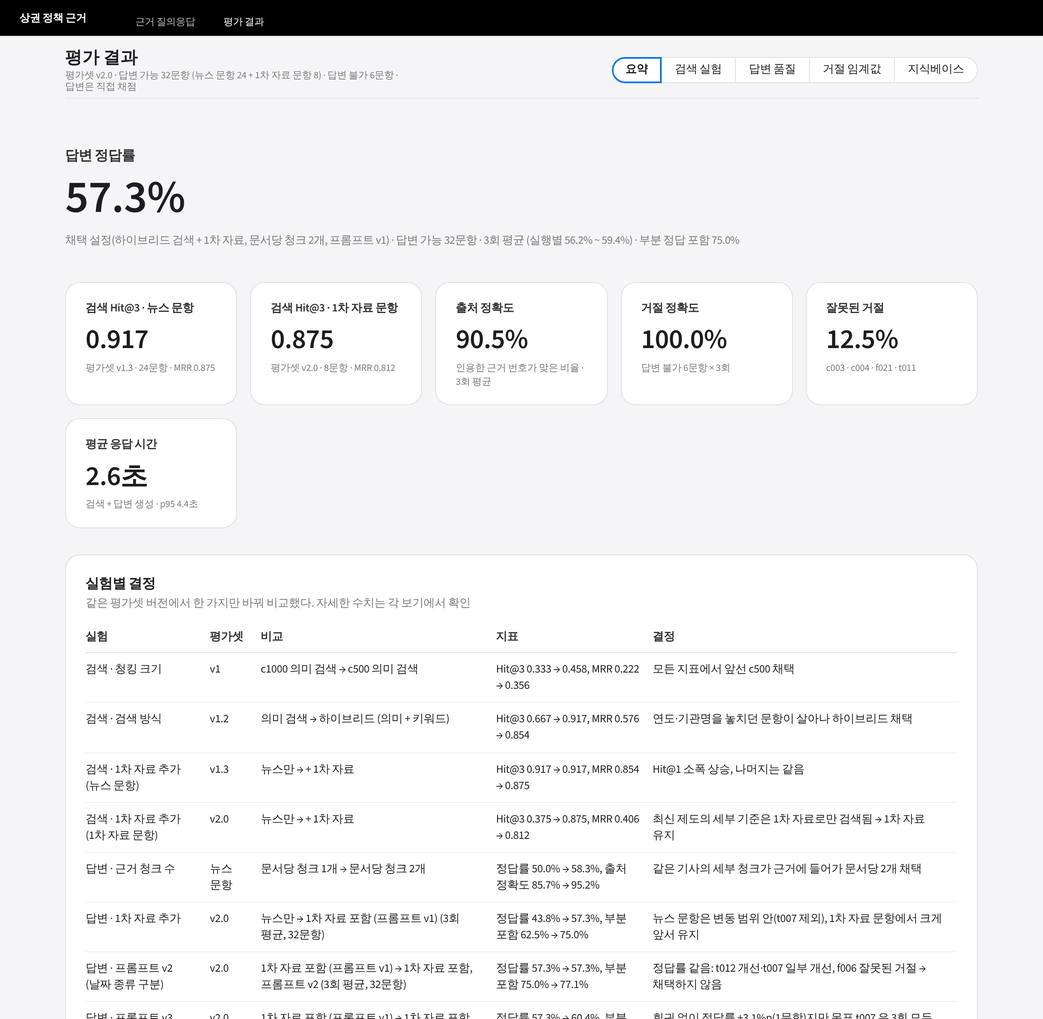
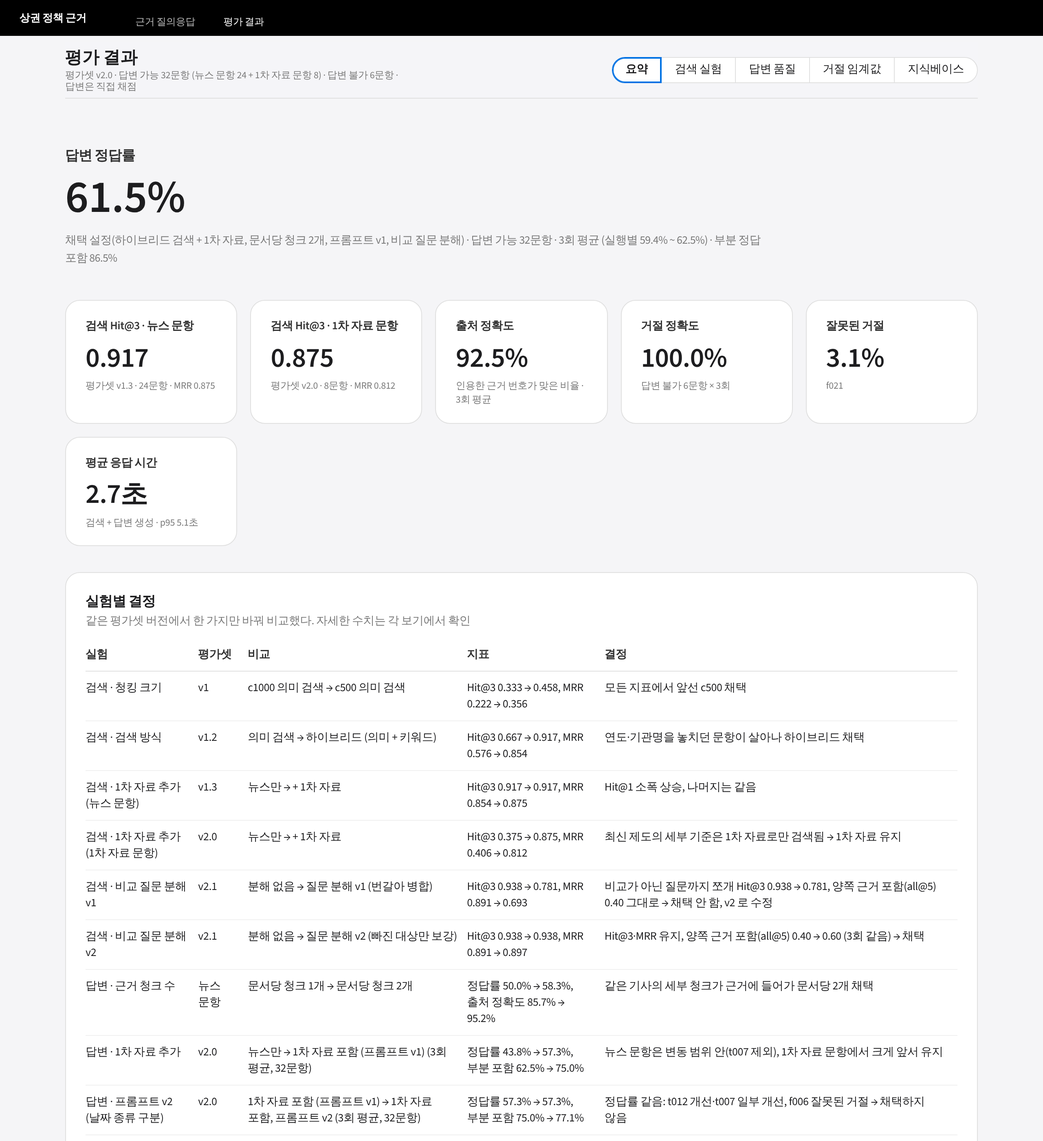
Adopt comparison decomposition v2 as the default
All three criteria set before the runs are met. Comparison all@5 goes
from 0.40 to 0.60 in every run, comparison accuracy goes from 20% to 40%,
and no question's grade got worse. Overall accuracy goes from 57.3% to
61.5% (75.0% to 86.5% counting partial answers). Hit@3 and MRR hold. The
run-3 dip comes from f021, which is not decomposed and already flipped
between two embedding results in earlier runs.

Caveat, recorded in the README, report and TODO: t011 and c003 used to
be false refusals and are now wrong answers. A sub-query brings in
evidence from another period, and the decomposition does not filter by
the question's year. Answered-but-wrong cases still drop from 12 to 10
across three runs.

DEFAULT_DECOMPOSE is now True, so the chatbot and run_eval both use it.
run_eval takes --no-decompose to reproduce earlier experiments. The
dashboard registers the v2 retrieval and answer comparisons, and the
adopted setting is now kb2-dec2. Tests pin the README figures.

diff --git a/eval/run_eval.py b/eval/run_eval.py
@@ -41,7 +41,7 @@ from typing import Any, Protocol
 from common.config import PROJECT_ROOT, RETRIEVAL_MODES, get_settings
 from common.docstore import open_db
 from common.schema import DocType
-from rag.chain import RagChain, RagResult, get_chain
+from rag.chain import DEFAULT_DECOMPOSE, RagChain, RagResult, get_chain
 from rag.prompts import DEFAULT_PROMPT_VERSION, PROMPT_VERSIONS
 from rag.retriever import HYBRID_CANDIDATES, RRF_K, RetrievedChunk, Retriever, SearchFilters
 
@@ -472,8 +472,9 @@ def main() -> None:
     parser.add_argument("--prompt-version", choices=PROMPT_VERSIONS,
                         help=f"답변 생성 시스템 프롬프트 버전 (기본: {DEFAULT_PROMPT_VERSION}, rag/prompts.py)")
     parser.add_argument("--seed", type=int, help="LLM seed (OpenAI 재현성 옵션, 반복 실행 변동 확인용)")
-    parser.add_argument("--decompose", action="store_true",
-                        help="비교 질문을 대상별 질의로 나눠 검색 (rag/decompose.py). 검색 평가에도 적용된다")
+    parser.add_argument("--decompose", action=argparse.BooleanOptionalAction, default=None,
+                        help="비교 질문을 대상별 질의로 나눠 검색 (rag/decompose.py, 기본: rag.chain.DEFAULT_DECOMPOSE). "
+                             "검색 평가에도 적용된다. 분해 채택 전 실험은 --no-decompose 로 재현한다")
     parser.add_argument("--rescore", type=Path, help="저장된 검색 결과(eval/results/...)를 현재 정답 목록으로 다시 채점")
     parser.add_argument("--ids", nargs="+", metavar="ID",
                         help="이 문항만 평가한다 (예: f021 t013). 일부 문항의 반복 실행 비교에 쓴다")
@@ -490,7 +491,8 @@ def main() -> None:
         return
     if args.k < 3:
         parser.error("--k 는 3 이상이어야 합니다 (Hit@3 계산)")
-    if (args.prompt_version or args.seed is not None) and not (args.with_answers or args.decompose):
+    decompose = DEFAULT_DECOMPOSE if args.decompose is None else args.decompose
+    if (args.prompt_version or args.seed is not None) and not (args.with_answers or decompose):
         parser.error("--prompt-version, --seed 는 --with-answers 와 함께 쓴다 (답변 생성 설정)")
 
     items = load_eval_set(settings.eval_set_path)
@@ -513,14 +515,14 @@ def main() -> None:
     if filters:
         print(f"검색 대상 문서 종류: {', '.join(args.doc_types)}")
     chain: RagChain | None = None
-    if args.with_answers or args.decompose:
+    if args.with_answers or decompose:
         try:
-            chain = get_chain(collection, mode, args.context_chunks, args.prompt_version, args.seed, args.decompose)
+            chain = get_chain(collection, mode, args.context_chunks, args.prompt_version, args.seed, decompose)
         except RuntimeError as exc:
             raise SystemExit(str(exc)) from exc
     # 질문 분해는 체인이 감싼 검색기에 있으므로 검색 평가도 그 검색기로 한다 (답변과 같은 하위 질의, 캐시 공유)
-    print(f"검색 평가 중: {len(items)}문항" + (" (질문 분해: 비교 질문은 LLM 호출 포함)" if args.decompose else ""))
-    records = evaluate_retrieval(items, chain.retriever if args.decompose else retriever, args.k, filters,
+    print(f"검색 평가 중: {len(items)}문항" + (" (질문 분해: 비교 질문은 LLM 호출 포함)" if decompose else ""))
+    records = evaluate_retrieval(items, chain.retriever if decompose else retriever, args.k, filters,
                                  progress=lambda message: print(message, flush=True))
     summary = summarize(records, args.k)
     answer_rows: list[dict[str, Any]] = []

diff --git a/app/experiments.py b/app/experiments.py
@@ -86,6 +86,12 @@ RETRIEVAL_COMPARISONS += (
         candidate=RunRef("20261104-1541_hybrid-c500-ctx2-kb2-dec-r1", "질문 분해 v1 (번갈아 병합)"),
         decision="비교가 아닌 질문까지 쪼개 Hit@3 0.938 → 0.781, 양쪽 근거 포함(all@5) 0.40 그대로 → 채택 안 함, v2 로 수정",
     ),
+    RetrievalComparison(
+        key="decompose-v2", title="비교 질문 분해 v2", eval_set="v2.1",
+        baseline=RunRef("20261104-0636_hybrid-c500-kb2-v2.1", "분해 없음"),
+        candidate=RunRef("20261104-1558_hybrid-c500-ctx2-kb2-dec2-r1", "질문 분해 v2 (빠진 대상만 보강)"),
+        decision="Hit@3·MRR 유지, 양쪽 근거 포함(all@5) 0.40 → 0.60 (3회 같음) → 채택",
+    ),
 )
 
 # 답변 근거 청크 수 비교 (뉴스 지식베이스, 각 1회)
@@ -135,6 +141,14 @@ ANSWER_SETTINGS: tuple[AnswerSetting, ...] = (
             ("20261104-1447_hybrid-c500-ctx2-kb2-p2-seed-r3",),
         ),
     ),
+    AnswerSetting(
+        key="kb2-dec2", label="1차 자료 포함, 비교 질문 분해 v2", short="분해",
+        repetitions=(
+            ("20261104-1558_hybrid-c500-ctx2-kb2-dec2-r1",),
+            ("20261104-1600_hybrid-c500-ctx2-kb2-dec2-r2",),
+            ("20261104-1602_hybrid-c500-ctx2-kb2-dec2-r3",),
+        ),
+    ),
 )
 ANSWER_COMPARISONS: tuple[AnswerComparison, ...] = (
     AnswerComparison(key="primary", title="1차 자료 추가", baseline="news", candidate="kb2",
@@ -145,8 +159,11 @@ ANSWER_COMPARISONS: tuple[AnswerComparison, ...] = (
                      decision="회귀 없이 정답률 +3.1%p(1문항)지만 목표 t007 은 3회 모두 부분 → 기준 미달로 v1 유지, 후보로 기록"),
     AnswerComparison(key="seed", title="seed 고정", baseline="kb2-p2", candidate="kb2-p2-seed",
                      decision="실행 간 같은 답변 비율이 그대로 → 변동을 줄이지 못함, 쓰지 않음"),
+    AnswerComparison(key="decompose", title="비교 질문 분해 v2", baseline="kb2", candidate="kb2-dec2",
+                     decision="비교 정답률 20 → 40%(c002 정확, c001·c004 오답 → 부분), 등급 회귀 없음 → 채택. "
+                              "t011·c003 은 잘못된 거절이 틀린 답으로 바뀜 (한계로 기록)"),
 )
-ADOPTED_ANSWER_SETTING = "kb2"
+ADOPTED_ANSWER_SETTING = "kb2-dec2"
 
 # 거절 임계값 근거: 답변 불가 문항까지 포함한 검색 실험 (30문항)
 THRESHOLD_RUNS: tuple[RunRef, ...] = (

diff --git a/tests/test_eval_data.py b/tests/test_eval_data.py
@@ -125,6 +125,23 @@ def test_prompt_v3_experiment_matches_readme():
     assert matrix["score_gap"].sum() == pytest.approx(1.5)
 
 
+
+def test_decomposition_v2_experiment_matches_readme():
+    """분해 v2: 정답률 57.3 → 61.5%, 비교 문항 c001·c002·c004 개선, t011·c003 은 등급이 같고(오답) 거절 대신 틀린 답."""
+    dec = ed.setting_frames(RESULTS, _setting("kb2-dec2"), "all")
+    scores = ed.mean_scores(ed.setting_summary(dec))
+    assert scores["accuracy"] == pytest.approx(0.615, abs=1e-3)
+    assert scores["accuracy_with_partial"] == pytest.approx(0.865, abs=1e-3)
+    assert scores["false_refusal_rate"] == pytest.approx(1 / 32)
+    matrix = ed.grade_matrix({"분해": dec, "v1": ed.setting_frames(RESULTS, _setting("kb2"), "all")}).set_index("id")
+    assert list(matrix.loc["c002", ["분해 1회", "분해 2회", "분해 3회"]]) == ["정확"] * 3
+    assert matrix.loc[["c001", "c004"], "score_gap"].tolist() == [pytest.approx(0.5)] * 2
+    assert matrix.loc[matrix["score_gap"] < 0].index.tolist() == ["f016"]   # 검색 결과가 같은 생성 변동
+    assert matrix["score_gap"].sum() == pytest.approx(2.5)
+    for frame in dec:
+        rows = frame.set_index("id")
+        assert not rows.loc[["t011", "c003"], "refused"].any() and (rows.loc[["t011", "c003"], "grade"] == "오답").all()
+
 def test_answer_latency_is_weighted_by_items():
     latency = ed.answer_latency(RESULTS, _setting("kb2-p2"))
     assert 2000 < latency["mean"] < 3000 and latency["p95"] > latency["mean"]

diff --git a/tests/test_dashboard_app.py b/tests/test_dashboard_app.py
@@ -45,7 +45,7 @@ def test_every_view_renders(view, fake_db):
 
 def test_overview_hero_shows_adopted_accuracy(fake_db):
     at = AppTest.from_function(_script, default_timeout=30).run()
-    assert '<div class="cb-hero__value">57.3%</div>' in _html(at)
+    assert '<div class="cb-hero__value">61.5%</div>' in _html(at)   # 분해 v2 채택 설정 (README 실험 기록)
 
 
 def test_answer_view_filters_render(fake_db):
@@ -88,7 +88,7 @@ def test_missing_results_show_guidance(monkeypatch, tmp_path, fake_db):
     assert "평가 결과 파일을 찾을 수 없습니다" in _html(at)
 
 
-@pytest.mark.parametrize("comparison", ["chunking", "hybrid", "primary", "primary8", "decompose-v1"])
+@pytest.mark.parametrize("comparison", ["chunking", "hybrid", "primary", "primary8", "decompose-v1", "decompose-v2"])
 def test_retrieval_comparisons_render(comparison, fake_db):
     at = AppTest.from_function(_script, default_timeout=30)
     at.session_state["dashboard_view"] = "검색 실험"
@@ -98,3 +98,5 @@ def test_retrieval_comparisons_render(comparison, fake_db):
     captions = " ".join(str(c.value) for c in at.caption)
     if comparison == "decompose-v1":
         assert "양쪽 근거 포함 all@5 0.40 → 0.40" in captions
+    if comparison == "decompose-v2":
+        assert "양쪽 근거 포함 all@5 0.40 → 0.60" in captions

diff --git a/tests/test_decompose.py b/tests/test_decompose.py
@@ -139,5 +139,14 @@ def test_chain_with_decompose_adds_the_missing_side():
 
 def test_chain_without_decompose_keeps_plain_retriever():
     inner = FakeRetriever({})
-    chain = RagChain(inner, FakeListChatModel(responses=["x"]), ChainConfig(top_k=5, min_score=0.5))
+    chain = RagChain(inner, FakeListChatModel(responses=["x"]), ChainConfig(top_k=5, min_score=0.5, decompose=False))
     assert chain.retriever is inner
+
+
+def test_decompose_is_default_and_skips_llm_for_non_comparison_questions():
+    """채택 설정은 분해를 켠다. 비교 표현이 없는 질문은 LLM 을 부르지 않고 원래 검색 결과를 그대로 쓴다."""
+    inner = FakeRetriever({"C 사업 지원 금액은?": [_chunk("c1")]})
+    llm = FakeListChatModel(responses=[])   # 호출되면 응답이 없어 실패한다
+    chain = RagChain(inner, llm, ChainConfig(top_k=5, min_score=0.5))
+    assert isinstance(chain.retriever, DecomposingRetriever)
+    assert [c.doc_id for c in chain.retriever.retrieve("C 사업 지원 금액은?", k=5)] == ["c1"]

diff --git a/app/dashboard.py b/app/dashboard.py
@@ -122,7 +122,7 @@ def render_overview(results_dir: Path) -> None:
     st.html(ui.hero_html(
         "답변 정답률",
         _pct(all_scores["accuracy"]),
-        f"채택 설정(하이브리드 검색 + 1차 자료, 문서당 청크 2개, 프롬프트 v1) · 답변 가능 32문항 · 3회 평균 "
+        f"채택 설정(하이브리드 검색 + 1차 자료, 문서당 청크 2개, 프롬프트 v1, 비교 질문 분해) · 답변 가능 32문항 · 3회 평균 "
         f"(실행별 {_pct(all_scores['accuracy_min'])} ~ {_pct(all_scores['accuracy_max'])}) · "
         f"부분 정답 포함 {_pct(all_scores['accuracy_with_partial'])}",
     ))

diff --git a/rag/chain.py b/rag/chain.py
@@ -39,7 +39,9 @@ from rag.retriever import RetrievedChunk, Retriever, SearchFilters
 ChatHistory = Sequence[tuple[str, str]]
 
 MAX_HISTORY_TURNS = 3
-DEFAULT_DECOMPOSE = False   # 비교 질문 분해 (rag/decompose.py). 실험으로 채택이 확인되면 바꾼다
+# 비교 질문 분해 (rag/decompose.py). v2 채택: 비교 문항 양쪽 근거 포함 all@5 0.40 → 0.60, 정답률 57.3 → 61.5%
+# (README 실험 기록). 비교 표현이 없는 질문은 분해하지 않아 LLM 호출·응답 시간이 그대로다
+DEFAULT_DECOMPOSE = True
 _CITATION = re.compile(r"\[(\d{1,2})\]")
 
 

diff --git a/report/report.md b/report/report.md
@@ -9,15 +9,15 @@
 | 항목 | 값 |
 |---|---|
 | 지식베이스 | 14,916건 (뉴스 14,397 · 정책브리핑 보도자료 487 · 서울시 공고 32), 청크 55,332개 |
-| 채택 설정 | 하이브리드 검색(의미 + 키워드, RRF) · 500자 청크 · 문서당 근거 청크 2개 · 유사도 임계값 0.5 · gpt-4o-mini · 프롬프트 v1 |
-| 검색 | 뉴스 문항 Hit@3 0.917 · MRR 0.875 (24문항) / 1차 자료 문항 Hit@3 0.875 · MRR 0.812 (8문항) |
-| 답변 (32문항 × 3회 직접 채점) | 정답률 **57.3%** (실행별 56.2~59.4%), 부분 정답 포함 75.0%, 출처 정확도 90.5% |
-| 거절 | 답변 불가 6문항 × 3회 모두 거절 (100%), 답변 가능한데 거절 12.5% (4문항) |
-| 유형별 정답률 | 사실 84% · 종합 42% · 시점 38% · 비교 20% |
+| 채택 설정 | 하이브리드 검색(의미 + 키워드, RRF) · 500자 청크 · 문서당 근거 청크 2개 · 유사도 임계값 0.5 · gpt-4o-mini · 프롬프트 v1 · 비교 질문 분해(비교 표현이 있는 질문만) |
+| 검색 | 뉴스 문항 Hit@3 0.917 · MRR 0.875 (24문항) / 1차 자료 문항 Hit@3 0.875 · MRR 0.812 (8문항) / 비교 문항 양쪽 근거 포함(all@5) 0.60 (분해 전 0.40) |
+| 답변 (32문항 × 3회 직접 채점) | 정답률 **61.5%** (실행별 59.4~62.5%), 부분 정답 포함 86.5%, 출처 정확도 92.5% |
+| 거절 | 답변 불가 6문항 × 3회 모두 거절 (100%), 답변 가능한데 거절 3.1% (1문항) |
+| 유형별 정답률 | 사실 84% · 종합 50% · 비교 40% · 시점 38% |
 
 **신뢰 판단.**
-- **사실 확인은 근거로 쓸 수 있다.** 대상·금액·기준을 묻는 질문의 84%가 정확했다. 답변의 [번호]가 원문 문단과 연결되고, 인용한 근거가 맞은 비율은 90.5%다.
-- **시점 변화와 비교 질문은 답변을 그대로 인용하면 안 된다.** 반드시 출처 원문과 대조해야 한다. 이 유형에서는 시점 혼동, 한쪽만 검색된 비교, 잘못된 거절이 반복됐다.
+- **사실 확인은 근거로 쓸 수 있다.** 대상·금액·기준을 묻는 질문의 84%가 정확했다. 답변의 [번호]가 원문 문단과 연결되고, 인용한 근거가 맞은 비율은 92.5%다.
+- **시점 변화와 비교 질문은 답변을 그대로 인용하면 안 된다.** 반드시 출처 원문과 대조해야 한다. 이 유형에서는 시점 혼동, 한쪽 대상의 핵심이 빠진 비교, 시점이 다른 근거로 답한 비교가 반복됐다.
 - **근거가 없는 질문에는 수치를 지어내지 않았다.** 6문항 × 3회 모두 거절했다.
 - **판단의 근거는 반복 측정이다.** 같은 설정을 3회 반복 실행해 실행 간 변동(정답률 ±1문항)을 쟀다. 설정 간 비교는 이 변동 폭과 문항별 일관성으로 판단했다.
 
@@ -258,32 +258,37 @@ flowchart LR
 - 채택 설정: Hit@3 0.875 · MRR 0.812
 - 같은 컬렉션에서 1차 자료를 빼고 검색했을 때: Hit@3 0.375 · MRR 0.406
 
+비교 질문 분해(채택)는 평가셋 v2.1 의 답변 가능 32문항에서 Hit@3 0.938 · MRR 0.891 → 0.897 로 순위를 유지하고, 비교 문항의
+양쪽 근거 포함(all@5)을 0.40 → 0.60 으로 올렸다 (7장 6). 비교 표현이 없는 질문의 검색 결과는 분해 전과 같다.
+
 ### 6.2 답변 품질 (채택 설정, 32문항 × 3회)
 
 | 실행 | 정확 / 부분 / 오답 | 정답률 | 출처 정확도 | 거절 정확도 | 잘못된 거절 |
 |---|---|---|---|---|---|
-| 1회 | 19 / 6 / 7 | 59.4% | 92.9% | 100% | 12.5% |
-| 2회 | 18 / 4 / 10 | 56.2% | 85.7% | 100% | 12.5% |
-| 3회 | 18 / 7 / 7 | 56.2% | 92.9% | 100% | 12.5% |
-| **평균** | 18.3 / 5.7 / 8.0 | **57.3%** | **90.5%** | **100%** | **12.5%** |
+| 1회 | 19 / 9 / 4 | 59.4% | 93.5% | 100% | 3.1% |
+| 2회 | 20 / 8 / 4 | 62.5% | 93.5% | 100% | 3.1% |
+| 3회 | 20 / 7 / 5 | 62.5% | 90.3% | 100% | 3.1% |
+| **평균** | 19.7 / 8.0 / 4.3 | **61.5%** | **92.5%** | **100%** | **3.1%** |
 
-- 평균 응답 시간은 검색과 생성을 합쳐 2.6초다 (p95 약 4.4초).
-- 잘못된 거절 4문항은 t011·c003·c004·f021 이다. 모두 근거 문서가 검색되지 않은 경우다 (8장).
+- 분해 전 설정(같은 조건에서 분해만 끔)은 57.3% (부분 포함 75.0%)다. 차이는 비교 문항에서 났다 (7장 6).
+- 평균 응답 시간은 검색과 생성을 합쳐 2.7초다 (p95 약 5.1초). 비교 표현이 있는 질문에만 분해 LLM 호출이 더해진다.
+- 잘못된 거절은 f021 하나다. 근거 보도자료가 검색되지 않은 경우다 (8장).
+- 분해 전 잘못된 거절이던 t011·c003 은 거절 대신 시점이 다른 근거로 틀린 답을 한다 (8장). 등급은 같은 오답이지만 사용자에게는 더 위험한 실패다.
 
 ### 6.3 질문 유형별 정확도 (문항 × 3회 합산)
 
 | 유형 | 정확 | 부분 | 오답 | 정답률 | 검색 Hit@3 (뉴스 문항, v1.3) |
 |---|---|---|---|---|---|
-| 사실 | 38 | 3 | 4 | 84% | 1.00 |
-| 종합 | 5 | 5 | 2 | 42% | 1.00 |
-| 시점 | 9 | 8 | 7 | 38% | 0.83 |
-| 비교 | 3 | 1 | 11 | 20% | 0.75 |
+| 사실 | 38 | 4 | 3 | 84% | 1.00 |
+| 종합 | 6 | 5 | 1 | 50% | 1.00 |
+| 비교 | 6 | 6 | 3 | 40% | 0.75 |
+| 시점 | 9 | 9 | 6 | 38% | 0.83 |
 
 - 사실 문항은 검색과 답변 모두 안정적이다.
-- **종합 문항의 검색 지표(1.00)는 포화돼 있다.** 한쪽 근거만 찾아도 정답으로 집계되기 때문이다. 실제 품질은 답변 채점(42%)이 보여 준다.
+- **종합 문항의 검색 지표(1.00)는 포화돼 있다.** 한쪽 근거만 찾아도 정답으로 집계되기 때문이다. 실제 품질은 답변 채점(50%)이 보여 준다.
 - **약점은 시점과 비교다.**
   - 시점: 검색은 되지만 생성 단계에서 시점이 섞인다 (t009·s006·t012).
-  - 비교: 한쪽만 검색되거나 아예 거절한다 (c001~c004).
+  - 비교: 분해로 양쪽 근거를 찾게 돼 20% → 40% (부분 포함 80%)가 됐다. 남은 실패는 한쪽 핵심 누락(c001·c004)과 시점이 다른 근거(c003)다.
 
 ### 6.4 거절 임계값의 근거
 
@@ -333,10 +338,14 @@ flowchart LR
 | `…-kb2-p2-r1~r3` | 프롬프트 v2 (날짜 종류 구분) | v2.0 | — | — | — | 57.3% (32) | 100% |
 | `…-kb2-p3-r1~r3` | 프롬프트 v3 (상대 날짜) | v2.0 | — | — | — | 60.4% (32) | 100% |
 | `…-kb2-p2-seed-r1~r3` | seed 42 고정 | v2.0 | — | — | — | 58.3% (32) | 100% |
+| `…-kb2-v2.1` | (분해 없음, 다시 채점) | v2.1 | 0.844 | 0.938 | 0.891 | — | — |
+| `…-kb2-dec-r1~r3` | 비교 질문 분해 v1 (번갈아 병합) | v2.1 | 0.59 ~ 0.63 | 0.781 | 0.69 ~ 0.71 | — | — |
+| `…-kb2-dec2-r1~r3` | **비교 질문 분해 v2 (채택)** | v2.1 | 0.81 ~ 0.84 | 0.91 ~ 0.94 | 0.87 ~ 0.90 | **61.5% (32)** | 100% |
 
 - 검색 지표는 답변 가능 24문항(뉴스 문항) 기준이다. 1차 자료 문항 8개는 6.1 에 따로 적었다.
 - 정답률의 괄호는 답변 가능 문항 수다. (32)는 뉴스 문항 24(v1.3)와 1차 자료 문항 8(v2.0)을 합친 3회 평균이다.
 - 프롬프트·seed 실험은 검색 설정이 채택 설정과 같아 검색 지표를 적지 않았다.
+- v2.1 행(분해 실험)의 검색 지표는 답변 가능 32문항 기준이다. v2.1 은 v2.0 에 비교 문항의 대상별 정답 문서만 더한 것이다.
 
 1. **실패 분석 → 하이브리드 검색** (검색 계층)
    - 기준선의 Hit@3 실패 13문항을 원인별로 나눴다: 질문의 연도·기관명 무시 5, 비교 문항에서 한쪽만 검색 2, 관련 기사를 찾았지만 정답 목록에 없음 5, 기타 2.
@@ -364,6 +373,13 @@ flowchart LR
    - v3 의 +3.1%p 는 1문항으로, 실행 간 변동(1문항)의 경계다. 오른 문항도 모두 원래 흔들리던 문항이다. 그래서 **v1 을 유지하고 v3 는 후보로 남겼다.**
    - 같은 평가셋을 보며 규칙을 고치면 평가셋에만 맞춰질 위험이 있다. 그래서 문항 전용 표현은 넣지 않았다.
 5. **seed 고정**: 3회 답변이 모두 같은 문항이 seed 없이 17~18 / 38, seed 42 로도 18 / 38 이었다. 변동을 줄이지 못해 쓰지 않는다.
+6. **비교 질문 분해** (검색 계층, c001~c004 대응)
+   - 비교 질문은 의미·키워드 검색 모두 '질문 전체와 비슷한 문서'를 찾아 한쪽 대상의 문서가 상위를 채운다. 이를 재려고 평가셋 v2.1 에 비교 문항의 대상별 정답 문서를 적고, 모든 대상의 근거가 상위 5건에 든 문항 비율(all@5)을 지표로 더했다. 분해 전에는 0.40 (c002·c005)이다.
+   - 실행 전에 채택 기준을 정했다: ① 비교 문항 all@5 상승 ② 비교 정답률 상승 ③ 다른 문항 회귀 없음.
+   - **v1 (LLM 이 대상별 질의로 나누고 결과를 번갈아 병합)**: LLM 이 비교가 아닌 질문 25개까지 항목별로 쪼갰고, 질문 전체와 맞던 문서가 밀려 Hit@3 0.938 → 0.781 로 떨어졌다. all@5 는 0.40 그대로라 기준 ①에서 탈락했다.
+   - **v2**: 비교 표현(다른가·차이·비교·각각·상반 등)이 있는 질문만 분해하고, 원래 결과는 그대로 둔 채 빠진 대상만 그 대상 질의의 1위 문서로 가장 낮은 순위 자리를 바꾼다. 3회 실행에서 Hit@3·MRR 은 유지되고 all@5 는 0.40 → 0.60 이 됐다.
+   - 답변: 비교 정답률 20% → 40% (c002 오답·오답·부분 → 정확 3회, c001·c004 오답 3회 → 부분 3회), 32문항 57.3% → 61.5%, 등급이 나빠진 문항은 없다 (f016 1회 하락은 검색 결과가 같은 생성 변동). 기준을 모두 맞춰 **기본값으로 채택했다.**
+   - 대가: 38문항 평균 검색 시간이 0.35초 → 0.9초가 됐다. 늘어난 시간은 LLM 호출 1회와 하위 질의 검색이 더해지는 비교 표현 12문항에서 생긴다. t011·c003 은 잘못된 거절이 틀린 답으로 바뀌었다 (8장). 거절이 아닌 틀린 답은 3회 합계 12건 → 10건으로 줄었지만, 이 두 문항은 새로 생긴 위험이다.
 
 ## 8. 실패 사례 분석
 
@@ -372,22 +388,24 @@ flowchart LR
 | 문항 | 증상 | 원인 계층 | 판단 근거 |
 |---|---|---|---|
 | f021 부담경감 크레딧 | 3회 잘못된 거절 | **검색** | 근거 보도자료가 상위 5건 밖이고 1위 유사도가 0.484 로 임계값 미만이다. 긴 보도자료 속 여러 사업 중 하나라서, 청크에서 사업명 비중이 희석된다 |
-| t011 2026년 중기부 예산 (정부안·국회 확정안) | 3회 잘못된 거절 | **검색 · 데이터** | 해당 기사가 2026년을 '내년'으로 쓴다. 키워드·의미 검색 모두 정부 전체 예산 기사를 위로 올렸다 |
-| c003·c004 서울시 vs 중기부 비교 | 3회 잘못된 거절 | **검색** (c004 는 생성도) | 비교 대상 한쪽만 검색된다. c004 는 한쪽 근거가 있는데도 전체를 거절했다 (부분 답변 규칙이 적용되지 않음) |
+| t011 2026년 중기부 예산 (정부안·국회 확정안) | 3회 오답 (분해 전: 잘못된 거절) | **검색 · 데이터** (+생성) | 기사가 2026년을 '내년'으로 쓴다. 분해 하위 질의가 확정안 기사(16조5233억원)는 찾았지만 정부안 기사는 못 찾았고, 모델이 전년도 본예산(15조2488억원)을 정부안으로 썼다 (정답 16조8천억원) |
+| c003 서울시 vs 중기부 금융지원 (2026년 하반기) | 3회 오답 (분해 전: 잘못된 거절) | **검색** | 중기부 하위 질의가 2024-09 은행 협약 보도자료를, 원래 검색이 2026-02 서울시 종합지원 기사를 가져와 '2026년 하반기 계획'으로 답했다. 하위 질의 검색이 질문의 시점을 걸러내지 못한다 |
+| c004 상생배달앱 vs 서울배달+땡겨요 | 3회 부분 (분해 전: 잘못된 거절) | **생성** | 분해로 중기부 기사가 보강돼 중기부 쪽은 정확하다. 서울시 쪽은 근거 [2]에 있는 핵심(수수료 2%·상품권 연계 할인) 대신 은행 금융지원 기사로 답했다 |
 | t009 글로컬상권 2025 vs 2026 | 3회 오답 (v2·v3 포함 12회 모두) | **생성** (+검색) | 2026년 기준(서울 외·2년 50억원)을 2025년에도 적용해 '변동 없음'으로 결론냈다. 2024-04 신설 보도자료가 4위로 검색됐지만 쓰지 않았다 |
 | t007 배달·택배비 지원 시작일 | 부분 · 오답 · 부분 | **데이터** (+생성) | 보도자료에는 신청일(2.17)만 있고, 지급 시작일은 2.20 기사 본문에 '내일부터'로만 있다. 프롬프트 v2·v3 로 해결되지 않았다 → 색인 단계의 상대 날짜 정규화가 필요하다 |
-| c001 소비쿠폰 vs 상생페이백 | 3회 오답 | **데이터 · 검색** | 소비쿠폰 쪽 문서가 검색되지 않았다. 상생페이백은 AI 생성 기사([Q&AI])의 '총 30만원' 오류를 인용했다 |
+| c001 소비쿠폰 vs 상생페이백 | 3회 부분 (분해 전: 3회 오답) | **데이터** | 분해로 소비쿠폰 쪽 문서가 검색됐다. 지급 방식은 지역화폐만 답했고(카드 충전 누락), 상생페이백은 AI 생성 기사([Q&AI])의 '총 30만원' 오류를 인용했다 |
 | s004 대형마트 의무휴업 | 3회 부분 | **검색** | 유지 측 근거(소상공인 단체·노동계)가 검색되지 않았다. 완화 측 근거 두 개를 '상반된 근거'로 제시했다 |
 | t010 점포철거비 한도 변천 | 3회 부분 | **검색** | 250만원 단계 문서가 임계값을 통과한 근거에 없다 (근거 2건) |
 | s006 '연매출 30억원 이하' 기준 | 부분 · 오답 · 부분 | **생성** | 5월에 허용된 주유소 제한을 현재 규정처럼 서술했다 (시점 혼동). 2회차는 행안부 논리를 거꾸로 썼다 |
 | f015 상생페이백 기간 카드 사용액 | 3회 부분 | **생성** | 월별 수치는 맞지만, 10월이 전년보다 낮은 점을 짚지 않고 '전반적으로 높다'고 결론냈다 |
-| f013·c002·s001 | 실행마다 등급이 다름 | **생성 변동** | 오계산('최대 12%'), 틀린 결합 문장, 여·야 주체 오기가 3회 중 1~2회 나왔다 |
+| t012 고유가 지원금 주유소 사용 | 3회 부분 | **생성** | 결론(현재 가능)은 맞지만 첫 문장에서 4월 기준(30억원 초과 주유소 불가)을 현재처럼 썼다 (시점 혼동) |
+| f016·s006 (분해 전: f013·c002·s001) | 실행마다 등급이 다름 | **생성 변동** | 검색 결과가 같은데 3회 중 1회 등급이 달랐다 (f016 선물하기 불가 누락, s006 행안부 논리 반전). 분해 전에는 오계산('최대 12%'), 틀린 결합 문장, 여·야 주체 오기가 같은 식으로 나왔다 |
 
 **판단**
-- 남은 실패의 다수는 **검색 계층**이다 (f021·t011·c003·c004·s004·t010). 프롬프트로는 고칠 수 없다.
-  - 비교 질문은 양쪽을 따로 검색하는 질의 분해가 필요하다.
-  - 상대 날짜는 정규화가 필요하다.
-  - 긴 보도자료는 사업 단위 분할이 필요하다.
+- 남은 실패의 다수는 **검색 계층**이다 (f021·t011·c003·s004·t010). 프롬프트로는 고칠 수 없다.
+  - 비교 질문의 질의 분해(채택)는 한쪽만 검색되던 문제를 줄였지만, 하위 질의가 질문의 시점을 걸러내지 못한다 (c003). 하위 질의의 연도 조건을 기간 필터로 바꿔야 한다.
+  - 상대 날짜는 정규화가 필요하다 (t011·t007).
+  - 긴 보도자료는 사업 단위 분할이 필요하다 (f021).
 - **생성 계층**의 시점 혼동(t009·s006)은 근거마다 발행일이 붙어 있는데도 일어났다.
   - 시점 혼동이 일어난 문항은 사용자에게 원문 확인을 거쳐야 함을 보여 줘야 한다.
   - 그래서 챗봇은 답변 아래 출처 카드에 발행일과 1차 자료 여부를 표시하고, 원문 확인 창에서 근거 문단을 하이라이트한다.
@@ -398,7 +416,8 @@ flowchart LR
 - **문항 수가 적다.** 답변 가능 32문항이라 1문항이 약 3%p 에 해당한다. 실행 간 변동(정답률 ±1문항)과 비슷한 크기의 차이는 판단하지 않았다.
 - **채점자가 한 명이다.** 직접 채점이라 판정 기준의 일관성을 메모로 관리했지만, 채점자 간 일치도는 재지 않았다.
 - **평가셋 편향이 있었다.** 평가셋을 뉴스로 먼저 만들어 1차 자료의 효과가 처음에는 드러나지 않았다. 1차 자료 문항 8개를 추가해 따로 쟀다.
-- **같은 평가셋으로 개선한 위험이 있다.** 프롬프트를 같은 평가셋으로 두 번 고쳤다. 채택하려면 평가셋 밖 문항으로 확인해야 한다.
+- **같은 평가셋으로 개선한 위험이 있다.** 프롬프트를 같은 평가셋으로 두 번 고쳤고, 질문 분해 v2 도 같은 평가셋의 v1 실패 분석으로 설계했다. 분해 규칙과 프롬프트 예시에 평가 문항의 대상 이름을 넣지 않았지만, 평가셋 밖 비교 질문으로 다시 확인해야 한다.
+- **분해 실험의 포함률은 보수적이다.** 분해가 4·5위에 보강한 문서는 정답 판정 깊이(3위) 밖이라 판정하지 않았다. 예를 들어 c001 에 보강된 소비쿠폰 문서는 답변의 근거로 쓰였지만 정답 목록에는 없다.
 - **모델 비교를 하지 않았다.** 임베딩·생성 모델은 각각 하나만 썼다.
 
 **데이터의 한계**
@@ -407,7 +426,7 @@ flowchart LR
 - 범위 규칙(서울/전국)은 '정부서울청사', '서울 외 지역' 같은 표현에서 오탐이 있다.
 
 **시스템 개선 후보** (`TODO.md`)
-- 비교 질문 분해(양쪽 따로 검색)
+- 분해 하위 질의의 시점 조건을 기간 필터로 적용 (c003·t011)
 - 상대 날짜 정규화(색인 단계에서 발행일 기준 날짜 병기)
 - 긴 보도자료의 사업 단위 분할 또는 청크 단위 키워드 검색 (f021)
 - AI 생성 기사 표지([Q&AI]) 필터
@@ -422,7 +441,7 @@ flowchart LR
 | 신뢰 표시 | 답변마다 근거 발행일·출처 종류를 보이게 했다. 실무에서는 '1차 자료 없음' 경고나 시점 질문에 대한 주의 문구 같은 답변 수준의 신뢰 신호가 필요하다 |
 | 평가 운영 | 사용자 질문 로그에서 거절·오답 사례를 모아 평가셋을 늘리고, 모델·프롬프트·인덱스를 바꿀 때마다 같은 하네스로 3회 반복 재측정한다 |
 | 이용 조건 | 서울시 누리집(공공누리 제4유형)은 비상업 조건이다. 사내 업무용으로 쓰기 전에 이용 범위를 확인해야 한다 |
-| 운영 | API 키는 환경 변수로 관리하고 저장소에 넣지 않는다. 응답 시간(평균 2.6초, p95 4.4초)과 호출 비용 모니터링, 원문 DB 접근 권한 관리가 필요하다 |
+| 운영 | API 키는 환경 변수로 관리하고 저장소에 넣지 않는다. 응답 시간(평균 2.7초, p95 5.1초)과 호출 비용(비교 질문은 분해 LLM 호출 1회 추가) 모니터링, 원문 DB 접근 권한 관리가 필요하다 |
 
 ## 10. 심화 확장 결과
 
@@ -431,6 +450,7 @@ flowchart LR
 | 하이브리드 검색 (BM25 + 의미 검색, RRF) | v1.2 기준 Hit@3 0.667 → 0.917, MRR 0.576 → 0.854 (7장 1) |
 | 근거 확장 (문서당 청크 2개, 기사 순서대로 병합) | 정답률 50.0% → 58.3%, 출처 정확도 85.7% → 95.2% (7장 2) |
 | 1차 자료 직접 수집 (PDF·HWPX 원문 파싱) | 1차 자료 문항 정답률 12.5% → 87.5%, 32문항 종합 43.8% → 57.3% (7장 3) |
+| 비교 질문 분해 (비교 표현이 있을 때만 LLM 으로 대상별 질의 생성, 빠진 대상만 보강) | 비교 문항 all@5 0.40 → 0.60, 비교 정답률 20% → 40%, 32문항 57.3% → 61.5%, Hit@3·MRR 유지 (7장 6) |
 | 반복 측정으로 실행 간 변동 정량화 | 같은 설정 3회: 정답률 ±1문항, 답변 가능 24문항 중 5~6문항이 실행마다 등급이 달라짐. seed 고정은 효과 없음 (7장 5) |
 | 평가 결과 대시보드 (Plotly) | 실험 짝 비교, 유형별 등급, 문항 × 실행 등급표, 임계값 근거, 지식베이스 구성 (6.5) |
 | 챗봇 화면 | 스트리밍, 번호 출처 카드(신뢰도 배지), 원문 확인 창의 근거 문단 하이라이트, 기간·출처 종류 필터, 유사도 표시 |

diff --git a/TODO.md b/TODO.md
@@ -35,12 +35,13 @@
 | 개선 | 근거 | 비고 |
 |---|---|---|
 | f021 검색 실패 (긴 보도자료 속 한 사업) | f021 — 근거 보도자료가 상위 5건 밖, 1위 유사도 0.484 로 거절 | 사업명 키워드 가중·청크 단위 키워드 검색 검토 |
-| **비교 질문 분해 v2 — 실행 대기** | v1(번갈아 병합): 비교가 아닌 질문까지 쪼개 Hit@3 0.938 → 0.781, all@5 0.40 그대로 → 채택 안 함. v2 = 원래 결과 유지 + 빠진 대상만 보강, 비교 표현이 있을 때만 분해 (시뮬레이션 all@5 0.60) | 3회 실행(`...-kb2-dec2-r1~r3`) 후 채점. 채택 기준: 비교 all@5 상승, 비교 정답률 상승, 다른 문항 회귀 없음 |
+| ~~비교 질문 분해 v2~~ — **완료, 채택** | 3회 실행·채점: all@5 0.40 → 0.60, 비교 정답률 20 → 40%, 32문항 57.3 → 61.5%, 등급 회귀 없음 (README 실험 기록) | `DEFAULT_DECOMPOSE = True`. 이전 실험 재현은 `run_eval --no-decompose` |
+| 하위 질의의 시점 조건 (연도·'하반기' → 기간 필터) | 분해 v2 에서 t011·c003 이 잘못된 거절 → 틀린 답. c003 은 '2026년 하반기' 하위 질의가 2024-09 보도자료를 가져옴, t011 은 정부안 기사가 검색되지 않은 채 전년도 본예산을 정부안으로 씀 | 하위 질의에서 연도를 뽑아 `SearchFilters` 기간으로 검색. t011 은 상대 날짜 정규화와 함께 다룸 |
 | 상대 날짜 정규화 ('내년' → 2026, '내일' → 2.21) | t011 — 기사가 2026년을 '내년'으로 씀 (검색 실패). t007 — 지급 시작일이 기사 본문에 '내일부터'로만 있음 (프롬프트 v2·v3 로 해결 안 됨) | 색인 단계에서 발행일 기준으로 바꿔 청크에 병기 |
 | 프롬프트 v3 채택 검토 | v3 는 회귀 없이 +3.1%p (변동 경계) | 평가셋 밖 문항으로 확인 후 결정 |
-| 한쪽 근거만 있을 때 그 부분은 답하는 프롬프트 규칙 | c004 — 한쪽 근거가 있어도 전체 거절 | 잘못된 거절 |
+| 한쪽 근거만 있을 때 그 부분은 답하는 프롬프트 규칙 | c004 — 한쪽 근거가 있어도 전체 거절 (분해 v2 로 양쪽 근거가 검색돼 부분 정답이 됨) | 분해로도 한쪽만 찾는 경우에 대비 |
 | 시점 혼동 방지 (연도별 근거 구분) | s006 · t009 — 2026년 근거를 2025년으로 기술 | 청크 2개 이후 t009 악화 |
-| AI 생성 기사 '[Q&AI]' 제외 | c001 — 근거 없는 일반론 인용 | 품질 필터 규칙 |
+| AI 생성 기사 '[Q&AI]' 제외 | c001 — 근거 없는 일반론 인용, '총 30만원'(3개월 기준) 오류의 출처. 분해 v2 가 c001 에 보강한 소비쿠폰 문서도 [Q&AI] 기사 | 품질 필터 규칙. 제외하면 c001 근거가 바뀌므로 재측정 필요 |
 | 범위 규칙 v2 | '정부서울청사', '서울 외 지역' 오탐 | 평가셋이 아닌 라벨링 표본으로 검증 |
 | 1차 자료 우선 노출 (문서 종류별 배분) | 뉴스 14,467건에 보도자료 약 490건이 묻힐 수 있음 | 재측정 결과를 보고 결정 |
 
